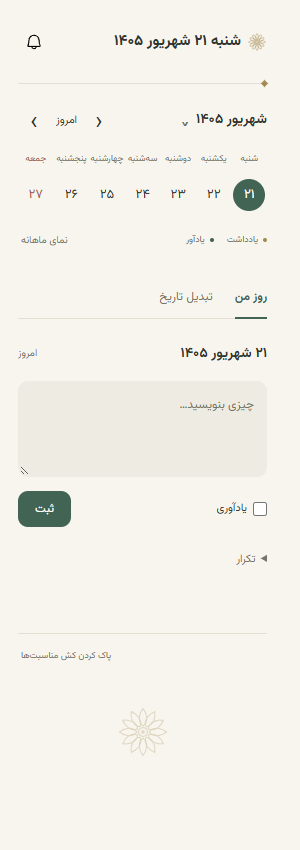
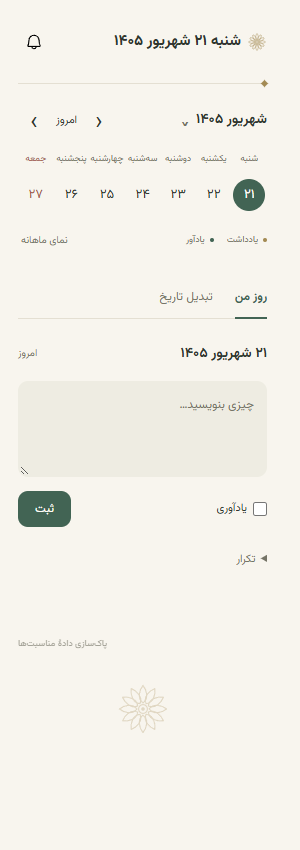
Fix events API connectivity and quiet cache control

Changed region(s): [[0.06, 0.7341, 0.36, 0.7953], [0.39, 0.7953, 0.54, 0.8871]]

diff --git a/sidepanel.html b/sidepanel.html
@@ -7,7 +7,7 @@
   <section class="calendar-section" aria-label="تقویم"><div class="section-heading"><h2><button id="month-title" type="button" aria-expanded="false" aria-controls="month-picker" title="انتخاب ماه و سال"></button></h2><div class="navigation"><button id="prev" class="icon-button" aria-label="ماه قبل">‹</button><button id="today" class="text-button">امروز</button><button id="next" class="icon-button" aria-label="ماه بعد">›</button></div></div><div id="month-picker" class="month-picker" hidden><label for="jump-year">سال</label><select id="jump-year"></select><div id="jump-months" class="month-grid" aria-label="انتخاب ماه"></div></div><div class="weekdays" aria-hidden="true"><span>ش</span><span>ی</span><span>د</span><span>س</span><span>چ</span><span>پ</span><span>ج</span></div><div id="calendar" class="calendar" aria-label="روزهای ماه"></div><div class="legend"><span><i class="note-dot"></i>یادداشت</span><span><i class="reminder-dot"></i>یادآور</span><button id="week-toggle" class="text-button">نمای هفتگی</button></div></section>
   <div id="day-events" aria-live="polite"></div><nav class="tabs" aria-label="ابزارها"><button class="active" data-tab="day" aria-current="page">روز من</button><button data-tab="convert">تبدیل تاریخ</button></nav>
   <section id="day-panel" class="panel"><div class="section-heading"><h2 id="selected-title"></h2><span class="small" id="selected-relative"></span></div><form id="note-form"><label class="sr-only" for="note">یادداشت</label><textarea id="note" rows="3" maxlength="10000" placeholder="چیزی بنویسید…"></textarea><div class="composer-tools"><label class="remind-switch"><input id="remind-toggle" type="checkbox"><span>یادآوری</span></label><div id="reminder-time-row" hidden><div class="time-24" dir="ltr"><select id="reminder-hour" aria-label="ساعت یادآوری، ۲۴ ساعته"></select><span aria-hidden="true">:</span><select id="reminder-minute" aria-label="دقیقه یادآوری"></select></div><input id="reminder-time" type="hidden" value="09:00"></div><button id="cancel-note" type="button" class="text-button" hidden>انصراف</button><button class="primary" type="submit">ثبت</button></div><details id="repeat-options"><summary>تکرار</summary><label for="repeat-mode">تکرار</label><select id="repeat-mode"><option value="none">فقط همین روز</option><option value="daily">هر روز · روزهای پشتسرهم</option><option value="weekly">روزهای مشخص هفته</option></select><div id="repeat-days" hidden></div><div id="repeat-end-row" hidden><label for="repeat-end">پایان</label><select id="repeat-end"><option value="30">پس از ۳۰ روز</option><option value="7">پس از ۷ روز</option><option value="90">پس از ۹۰ روز</option><option value="custom">تعداد روز دلخواه</option><option value="forever">بدون پایان</option></select><input id="repeat-duration" type="number" min="1" max="36500" value="30" aria-label="تعداد روز از شروع" hidden><p class="small">از روز انتخابشده؛ شامل روز شروع</p></div><p id="repeat-edit-hint" class="small" hidden></p></details><span class="small" id="note-status" role="status"></span></form><div id="day-notes" aria-live="polite"></div></section>
-  <section id="convert-panel" class="panel" hidden><h2>یک تاریخ، دو تقویم</h2><form id="convert-form"><label for="calendar-type">تبدیل از</label><select id="calendar-type"><option value="persian">شمسی به میلادی</option><option value="gregorian">میلادی به شمسی</option></select><div class="date-selectors"><div><label for="convert-year">سال</label><select id="convert-year" required></select></div><div><label for="convert-month">ماه</label><select id="convert-month" required></select></div><div><label for="convert-day">روز</label><select id="convert-day" required></select></div></div><button class="primary" type="submit">تبدیل تاریخ</button></form><output id="convert-result" aria-live="polite"></output><button id="go-converted" class="text-button accent" hidden>رفتن به این روز در تقویم ←</button></section><div class="cache-actions"><button id="clear-events" class="text-button">پاک کردن کش مناسبتها</button></div>
+  <section id="convert-panel" class="panel" hidden><h2>یک تاریخ، دو تقویم</h2><form id="convert-form"><label for="calendar-type">تبدیل از</label><select id="calendar-type"><option value="persian">شمسی به میلادی</option><option value="gregorian">میلادی به شمسی</option></select><div class="date-selectors"><div><label for="convert-year">سال</label><select id="convert-year" required></select></div><div><label for="convert-month">ماه</label><select id="convert-month" required></select></div><div><label for="convert-day">روز</label><select id="convert-day" required></select></div></div><button class="primary" type="submit">تبدیل تاریخ</button></form><output id="convert-result" aria-live="polite"></output><button id="go-converted" class="text-button accent" hidden>رفتن به این روز در تقویم ←</button></section><div class="cache-actions"><button id="clear-events" class="text-button" title="دریافت دوباره مناسبتها از سرویس">پاکسازی دادهٔ مناسبتها</button></div>
   </div>
   <section id="alerts-panel" aria-label="اعلانها" hidden><header class="alerts-header"><button id="back-home" type="button" aria-label="بازگشت به صفحه اصلی">› <span>بازگشت</span></button><h1>اعلانها</h1></header><div class="reminder-filters" role="tablist" aria-label="یادآورها"><button id="due-tab" type="button" role="tab" aria-controls="all-reminders" data-reminder-filter="due" aria-selected="true">موعدرسیده</button><button id="upcoming-tab" type="button" role="tab" aria-controls="all-reminders" data-reminder-filter="upcoming" aria-selected="false" tabindex="-1">پیشرو<span id="upcoming-count"></span></button></div><div id="all-reminders" role="tabpanel" aria-labelledby="due-tab"></div></section>
   <dialog id="series-scope"><form method="dialog"><h2 id="scope-title">تغییر تکرار</h2><button value="one" class="primary">فقط این روز</button><button value="all" class="text-button">همهٔ تکرارها</button><button value="cancel" class="text-button">انصراف</button></form></dialog><div id="message" role="status" aria-live="polite" hidden></div>

diff --git a/styles.css b/styles.css
@@ -108,3 +108,5 @@ select,input:not([type=checkbox]):not([type=hidden]){min-height:var(--control-he
 .holiday{color:var(--rose)}
 .holiday .number{color:var(--rose)}
 .day.selected.holiday .number{color:#fffdf7}
+
+.cache-actions{border-top:0;padding:0 0 10px;justify-content:flex-start}.cache-actions #clear-events{padding:4px 0;font-size:9px;opacity:.7}

diff --git a/README.md b/README.md
@@ -1,6 +1,6 @@
 # روز · تقویم شمسی
 
-نسخهٔ ۱.۴.۳ — افزونهٔ سایدپنل کروم برای تقویم شمسی، یادداشت و یادآور؛ کاملاً محلی و بدون نیاز به حساب کاربری.
+نسخهٔ ۱.۴.۷ — افزونهٔ سایدپنل کروم برای تقویم شمسی، یادداشت و یادآور؛ کاملاً محلی و بدون نیاز به حساب کاربری.
 
 ![نمای تقویم با طرح ایرانی](screenshots/persian-theme.png)
 
